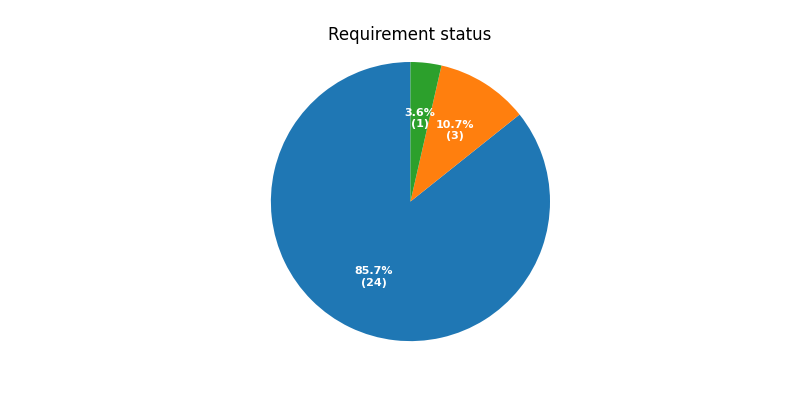
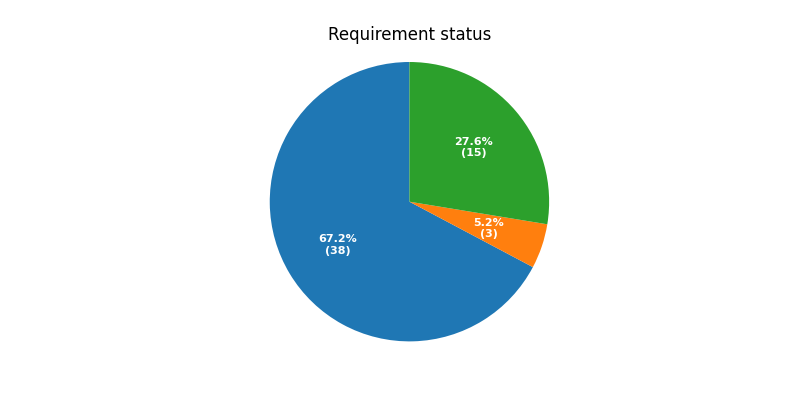
github service is collectng data

diff --git a/sphinxcontrib/needs/services/github.py b/sphinxcontrib/needs/services/github.py
@@ -1,5 +1,8 @@
+import requests
 import sphinx
 from pkg_resources import parse_version
+
+from m2r import convert
 
 sphinx_version = sphinx.__version__
 if parse_version(sphinx_version) >= parse_version("1.6"):
@@ -13,33 +16,63 @@ from sphinxcontrib.needs.services.base import BaseService
 
 
 class GithubService(BaseService):
-    options = ['query', 'sort']
+    options = ['query']
 
     def __init__(self, app, name, config):
         self.app = app
         self.name = name
         self.config = config
+
         super(GithubService, self).__init__()
+
+    def _send(self, query):
+        params = {
+            'q': query
+        }
+        resp = requests.get('https://api.github.com/search/issues', params=params)
+        return resp.json()
 
     def request(self, options=None):
         if options is None:
             options = {}
         self.log.debug(f'Requesting data for service {self.name}')
 
-        data = [
-            {
-                'title': 'test1',
-                'content': 'test1 content',
-                'id': 'GIT_001',
-                'author': 'MEEEEE'
-            },
-            {
-                'title': 'test2',
-                'content': 'test2 content',
-                'id': 'GIT_002',
-                'unknown': 'BLUBB',
-                'unknown2': 'BLUBB2'
-            },
-        ]
+        if 'query' not in options:
+            raise NeedGithubServiceException('"query" missing as option for github service.')
+        else:
+            query = options['query']
 
+        response = self._send(query)
+        # data = [
+        #     {
+        #         'title': 'test1',
+        #         'content': 'test1 content',
+        #         'id': 'GIT_001',
+        #         'author': 'MEEEEE'
+        #     },
+        #     {
+        #         'title': 'test2',
+        #         'content': 'test2 content',
+        #         'id': 'GIT_002',
+        #         'unknown': 'BLUBB',
+        #         'unknown2': 'BLUBB2'
+        #     },
+        # ]
+        data = []
+        for item in response['items']:
+            data.append(
+                {
+                    'id': f'GITHUB_{item["number"]}',
+                    'title': item["title"],
+                    # 'content': convert(item["body"]),
+                    'content': item["body"],
+                    'status': item["state"],
+                    'tags': ".".join([x['name'] for x in item["labels"]]),
+                    'author': item["user"]['login'],
+                    }
+            )
         return data
+
+
+class NeedGithubServiceException(BaseException):
+    pass

diff --git a/sphinxcontrib/needs/directives/needservice.py b/sphinxcontrib/needs/directives/needservice.py
@@ -16,6 +16,8 @@ else:
     import logging
 logger = logging.getLogger(__name__)
 
+from docutils.parsers.rst import directives
+
 
 class Needservice(nodes.General, nodes.Element):
     pass
@@ -27,7 +29,9 @@ class NeedserviceDirective(Directive):
     required_arguments = 1
     optional_arguments = 0
 
-    option_spec = {}
+    option_spec = {'query': directives.unchanged_required,
+                   'amount': directives.unchanged_required  # ToDo: Needs to be implemented icl paging (Load everything till amount is reached)!
+                   }
 
     final_argument_whitespace = True
 
@@ -89,6 +93,7 @@ class NeedserviceDirective(Directive):
             # Replace values in datum with calculated/checked ones.
             datum.update(options)
 
+            # ToDo: Tags and Status are not set (but exist in data)
             section += add_need(self.env.app, self.state, docname, self.lineno,
                                 need_type, need_title, **datum)
 

diff --git a/sphinxcontrib/needs/utils.py b/sphinxcontrib/needs/utils.py
@@ -19,9 +19,10 @@ NEEDS_FUNCTIONS = {}
 # List of internal need option names. They should not be used by or presented to user.
 INTERNALS = ['docname', 'lineno', 'target_node', 'refid', 'content', 'pre_content', 'post_content',
              'collapse', 'parts', 'id_parent',
-             'id_complete', 'title', 'full_title', 'is_part', 'is_need',
-             'type_prefix', 'type_color', 'type_style', 'type', 'type_name', 'id',
+             'id_complete', 'title', 'full_title', 'is_part', 'is_need', 'tags',
+             'type_prefix', 'type_color', 'type_style', 'type', 'type_name', 'id', 'status',
              'hide', 'hide_status', 'hide_tags', 'sections', 'section_name', 'content_node']
+
 
 MONTH_NAMES = ['January', 'February', 'March', 'April', 'May', 'June', 'July', 'August',
                'September', 'October', 'November', 'December']

diff --git a/sphinxcontrib/needs/needs.py b/sphinxcontrib/needs/needs.py
@@ -281,9 +281,11 @@ def load_config(app, *args):
 
     # Update NeedDirective to use customized options
     NeedDirective.option_spec.update(extra_options)
+    NeedserviceDirective.option_spec.update(extra_options)
 
     # Update NeedDirective to use customized links
     NeedDirective.option_spec.update(extra_links)
+    NeedserviceDirective.option_spec.update(extra_links)
 
     if title_optional or title_from_content:
         NeedDirective.required_arguments = 0

diff --git a/setup.py b/setup.py
@@ -10,7 +10,8 @@ requires = ['Sphinx<2;python_version<"3.5"',
             'six',
             'matplotlib<=3.0.3.;python_version<"3.6"',  # last version with py3.5 support
             'matplotlib;python_version>="3.6"',
-            'MarkupSafe<1.3.0.;python_version<"3.6"']
+            'MarkupSafe<1.3.0.;python_version<"3.6"',
+            'm2r']
 
 setup(
     name='sphinxcontrib-needs',

diff --git a/docs/directives/needservice.rst b/docs/directives/needservice.rst
@@ -7,10 +7,13 @@ needservice
 **needservice** allows the import of data from external services like Jira or github::
 
     .. needservice:: github
-       :id: GITHUB_123
-       :filter: project=useblocks/sphinx-needs;status=open
+       :query: repo:useblocks/sphinx-needs
+
 
 .. needservice:: github
+   :query: repo:useblocks/sphinxcontrib-needs
+
+   test
 
 The service is responsible for fetching all needed data based on the given options and return a list of
 need configurations. This is used by **Sphinx-Needs** to create a single need-object for each found need configuration.
